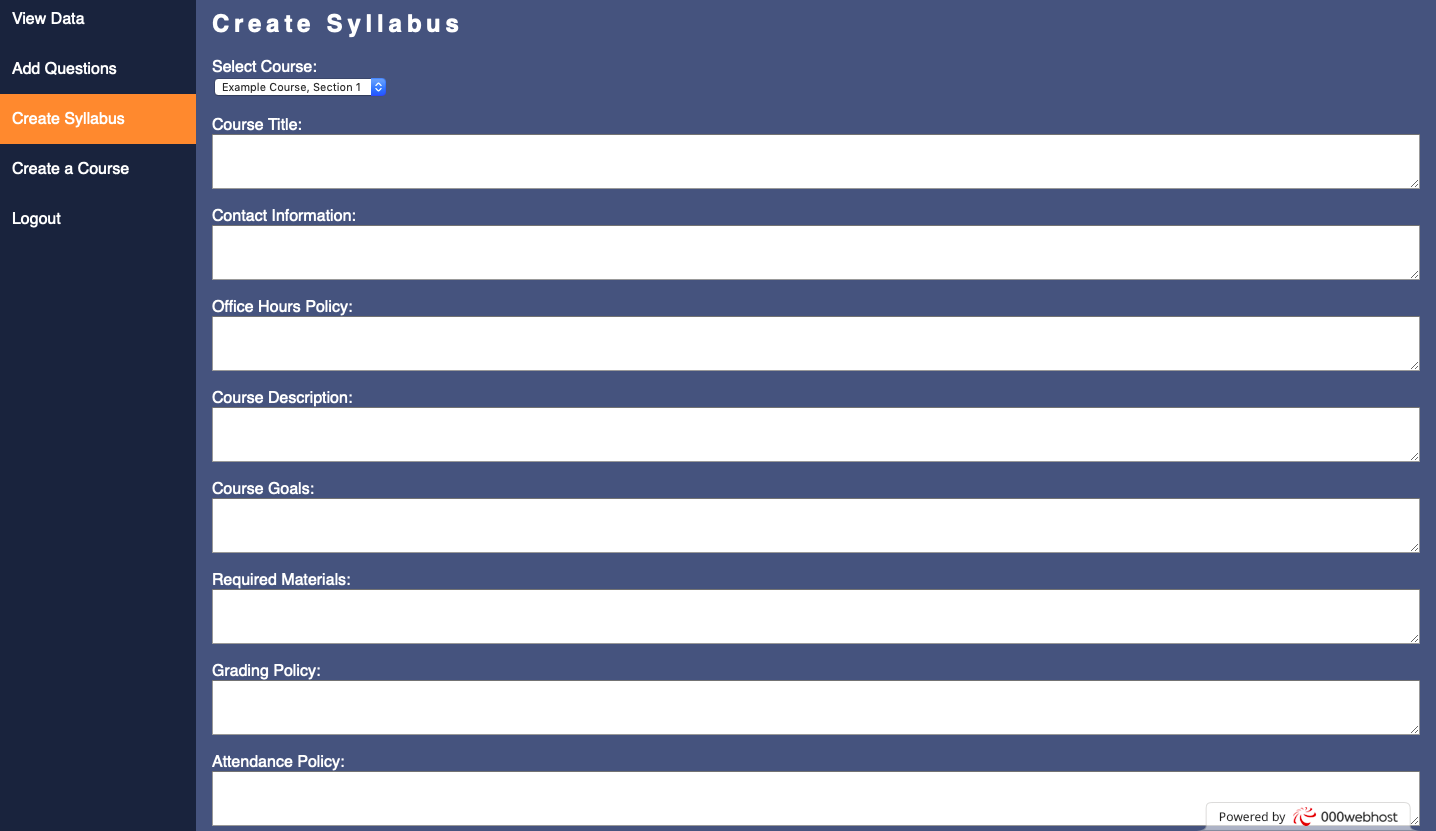
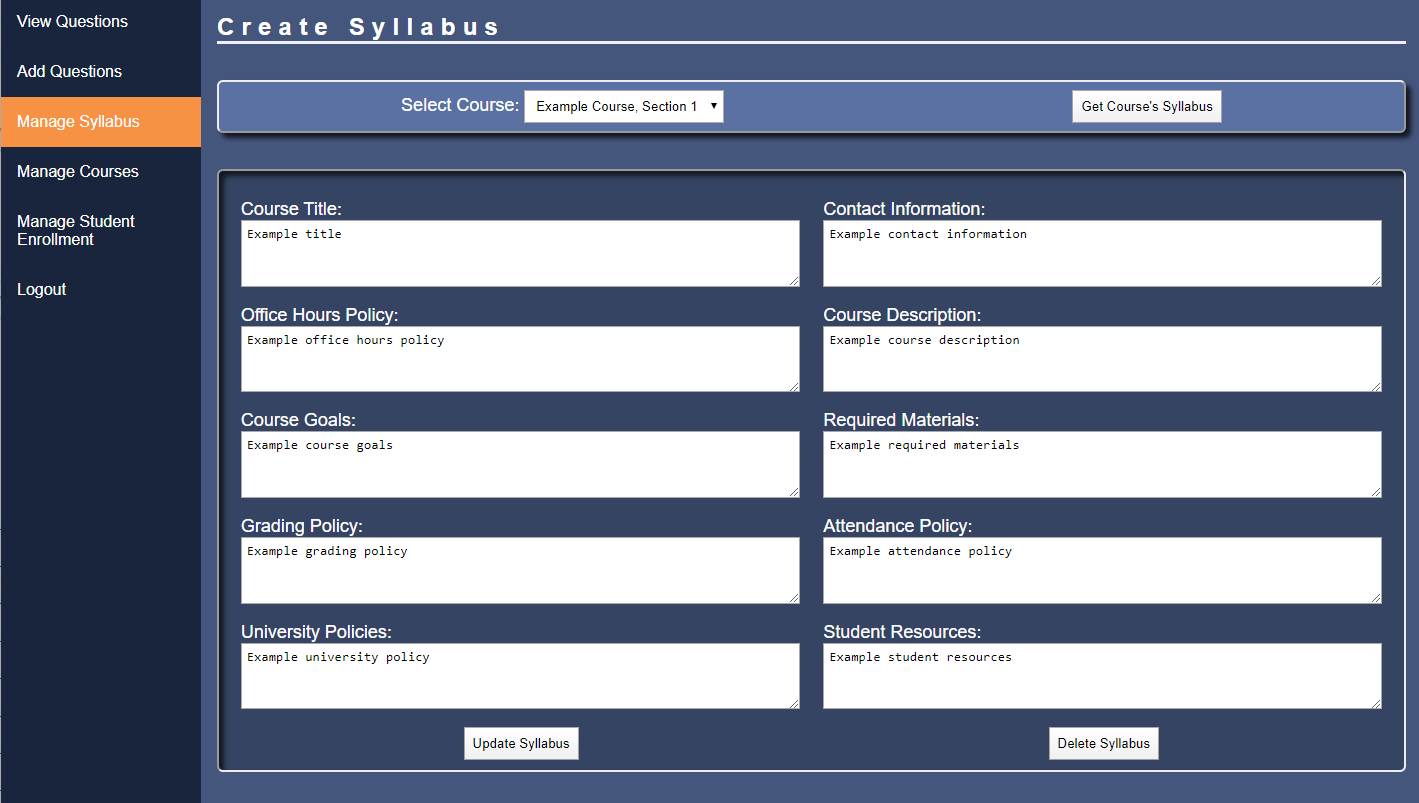
revise

diff --git a/Documentation/User.md b/Documentation/User.md
@@ -18,18 +18,20 @@
 
 
 ## Student Page
-### Chatbot
-![Student Chatbot][Stu-Chat]
-1. Interact with the chatbot by typing in the text box. Type "Hi" to recieve instructions from the chatbot on how to use it. 
-2. To ask a question about a class, simply type and enter a question about a class and make sure to include the name of the class. (Example: "How do I contact my professor for cs222")
-3. The chatbot will reply asking for the relevant information Enter Class ID of the class.
-4. After entering the Class ID number, the chatbot will try to retrieve an answer. If the question is not on record, the chatbot will let you know.
-5. If you cannot find the answer to your question this way, try typing "I have a question about cs222", substituting the proper class name, which will then prompt you to enter your question and class ID number.
+### View Course Questions
+![View Course Questions][Stu-Chat]
+1. Click on the "Select COurse" button for a course 
+2. The page will then update with all the questions the professor has created for that course.
 
-### Add Course
-![Add Course][Stu-Add]
+### Manage Enrolled Courses
+![Manage Enrolled Courses][Stu-Add]
+
+#### Adding a Course
 1. Input the number of the new course you'd like to add to your account into the "Course Number" field.
 2. Hit the "Submit" button to submit the data. If your selected class exists, and if you're not already signed up for it, it'll tell you it was successful. Otherwise, it will let you know of any errors.
+
+#### Dropping a Course
+1. Select the button of the course you'd like to withdraw from.
 
 
 ## Professor Page
@@ -47,16 +49,24 @@
 3. type in the answer
 4. click create question button
 
-### View Data
-![View Data][Prof-Vie]
-1. Click on the drop down below "Add Data" to select the class name of the class you'd like to add the new question to.
-2. Input the question text of the new question you'd like to add to the selected course in the "Question" field.
-2. Input the answer text of the new question you'd like to add to the selected course in the "Answer" field.
-4. Hit the "Submit New Question" button to submit the data. If your new question doesn't conflict with any existing ones, it'll tell you it was successful. Otherwise, it will let you know of any errors.
+### Manage Questions
+![Manage Questions][Prof-Vie]
+1. Click on the drop down next to "Select Course" to select the class name of the class you'd like to view the questions of.
+2. Click the "View Course's Questions" button to load all the created questions for the selected course.
+3. You can click the "Edit Question" button next to the question you want to edit. It will then let you edit them. You can then click "Submit Question" to submit the edits.
+4. You can click the "Delete Question" button next to the question you want to delete.
 
-### Create Syllabus
-![Create Syllabus][Prof-Syl]
-1. Select which course you are adding a syllabus to from the drop down menu
+### Manage Syllabus
+![Manage Syllabus][Prof-Syl]
+1. Select which course you are wanting to manage a syllabus for from the drop down menu
+2. From here, one of three options become available:
+  - If no syllabus exists for the selected course, you can fill out the fields and submit them to create a new syllabus for that course.
+  - If a syllabus already exists, you can change the fields and then hit the "update" button to submit your changes to the syllabus.
+  - If a syllabus already exists, you can hit the delete button to delete the syllabus and create a new one.
+
+### Manage Student Enrollment
+![Manage Student Enrollment][Prof-Stu]
+1. Select which course you are wanting to manage a syllabus for from the drop down menu
 2. From here, one of three options become available:
   - If no syllabus exists for the selected course, you can fill out the fields and submit them to create a new syllabus for that course.
   - If a syllabus already exists, you can change the fields and then hit the "update" button to submit your changes to the syllabus.
@@ -69,9 +79,10 @@
 
 [Login]:    https://github.com/Brendenjones12/Student-Engagement-and-Retention-Tool/blob/master/Auxiliary%20Files/Pictures/User%20Manual/Login.png		"Login Page"
 [Register]: https://github.com/Brendenjones12/Student-Engagement-and-Retention-Tool/blob/master/Auxiliary%20Files/Pictures/User%20Manual/Register.png	"Register Page"
-[Stu-Chat]: https://github.com/Brendenjones12/Student-Engagement-and-Retention-Tool/blob/master/Auxiliary%20Files/Pictures/User%20Manual/Stu-Chat.png	"Student - Chatbot Page"
-[Stu-Add]:	https://github.com/Brendenjones12/Student-Engagement-and-Retention-Tool/blob/master/Auxiliary%20Files/Pictures/User%20Manual/Stu-Add.png	"Student - Add Course Page"
-[Prof-Cre]:	https://github.com/Brendenjones12/Student-Engagement-and-Retention-Tool/blob/master/Auxiliary%20Files/Pictures/User%20Manual/Prof-Cre.png	"Professor - Create Course Page"
-[Prof-Dat]:	https://github.com/Brendenjones12/Student-Engagement-and-Retention-Tool/blob/master/Auxiliary%20Files/Pictures/User%20Manual/Prof-Dat.png	"Professor - Add Questions Page"
-[Prof-Vie]:	https://github.com/Brendenjones12/Student-Engagement-and-Retention-Tool/blob/master/Auxiliary%20Files/Pictures/User%20Manual/Prof-Vie.png	"Professor - View Data Page"
-[Prof-Syl]:	https://github.com/Brendenjones12/Student-Engagement-and-Retention-Tool/blob/master/Auxiliary%20Files/Pictures/User%20Manual/Prof-Syl.png	"Professor - View Syllabus"
+[Stu-Chat]: https://github.com/Brendenjones12/Student-Engagement-and-Retention-Tool/blob/master/Auxiliary%20Files/Pictures/User%20Manual/Stu-Chat.png	"Student - View Class Questions"
+[Stu-Add]:	https://github.com/Brendenjones12/Student-Engagement-and-Retention-Tool/blob/master/Auxiliary%20Files/Pictures/User%20Manual/Stu-Add.png	"Student - Manage Courses"
+[Prof-Cre]:	https://github.com/Brendenjones12/Student-Engagement-and-Retention-Tool/blob/master/Auxiliary%20Files/Pictures/User%20Manual/Prof-Cre.png	"Professor - Manage Courses"
+[Prof-Dat]:	https://github.com/Brendenjones12/Student-Engagement-and-Retention-Tool/blob/master/Auxiliary%20Files/Pictures/User%20Manual/Prof-Dat.png	"Professor - Add Questions"
+[Prof-Vie]:	https://github.com/Brendenjones12/Student-Engagement-and-Retention-Tool/blob/master/Auxiliary%20Files/Pictures/User%20Manual/Prof-Vie.png	"Professor - Manage Questions"
+[Prof-Syl]:	https://github.com/Brendenjones12/Student-Engagement-and-Retention-Tool/blob/master/Auxiliary%20Files/Pictures/User%20Manual/Prof-Syl.png	"Professor - Manage Syllabi"
+[Prof-Stu]: https://github.com/Brendenjones12/Student-Engagement-and-Retention-Tool/blob/master/Auxiliary%20Files/Pictures/User%20Manual/Prof-Stu.png	"Professor - Manage Student Enrollment"
